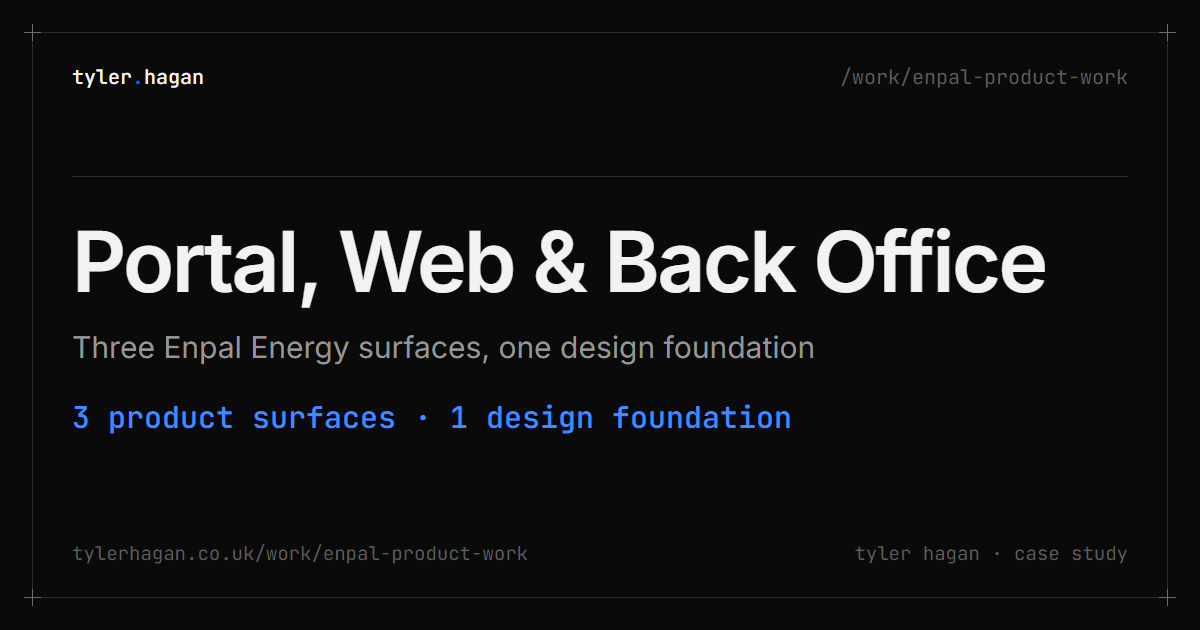
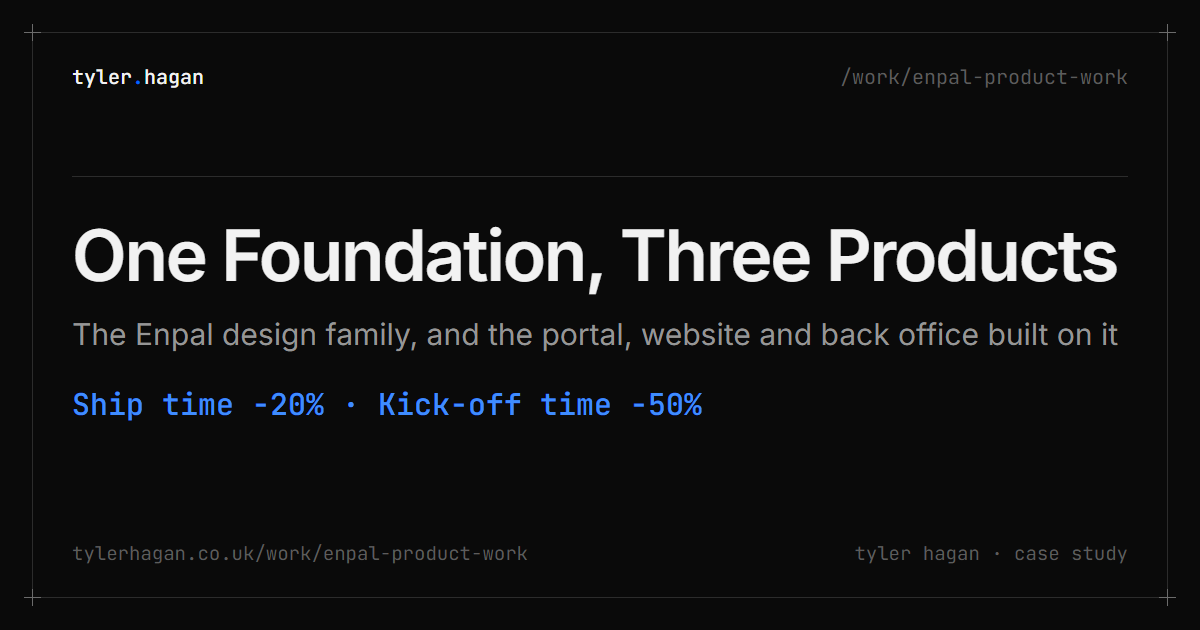
Merge the Enpal case studies into One Foundation, Three Products
The design family and product-surfaces cases become one open case study at
/work/enpal-product-work, with ship-time and kick-off KPIs and the system
deep dive kept behind the password at the end. /work/design-family
redirects there. New /work intro, and the home stat strip swaps
Discipline for Kick-off time −50%.

Changed region(s): [[0.0617, 0.3619, 0.9558, 0.4825], [0.0617, 0.5127, 0.9558, 0.573], [0.0617, 0.6032, 0.6475, 0.6937]]

diff --git a/src/utils/projectsData.js b/src/utils/projectsData.js
@@ -1,57 +1,46 @@
 export const projectsData = {
-  // ——— Enpal work, Mar–Sep 2026 (locked: full case study is encrypted) ———
-  'design-family': {
+  // ——— Enpal work, Mar–Sep 2026: the design family and the products built on it.
+  // The system deep-dive is encrypted: plaintext in content/design-family.content.json
+  // (gitignored), encrypted into public/data/design-family.enc.json via
+  // scripts/encrypt-case-study.mjs. /work/design-family redirects here (vercel.json). ———
+  'enpal-product-work': {
     // Headline figure for the share card (scripts/generate-og-card.mjs); only facts stated in the case
-    headline: '170+ tokens · 25+ components · 4 systems',
-    locked: true,
-    encPath: '/data/design-family.enc.json',
-    title: 'Enpal Design Family',
-    subtitle: 'One foundation, four systems: Enpal DS, NEMO, VERSO & FOLIO',
+    headline: 'Ship time −20% · Kick-off time −50%',
+    title: 'One Foundation, Three Products',
+    subtitle: 'The Enpal design family, and the portal, website and back office built on it',
     // Card copy on the home index, and the meta description for /work/<id>
-    summary: 'One shared foundation across four systems: Enpal DS, NEMO, VERSO, and FOLIO. 170+ tokens and 25+ components serving mobile, web, portal, and internal software.',
+    summary: 'As founding designer of a new venture, I built one shared design foundation and used it to ship a customer portal, a marketing site and a back-office tool. Cut ship times by 20% and kick-off times by 50%.',
     year: '2026',
     status: 'Shipped · in use at Enpal',
-    role: 'Senior Product Designer / Engineer',
+    role: 'Founding Designer / Design Engineer',
     timeline: 'Mar – Sep 2026',
-    tools: ['Figma', 'Design Tokens', 'React', 'shadcn', 'Ant Design'],
-    company: 'Enpal',
+    tools: ['Figma', 'Design Tokens', 'React', 'TypeScript', 'shadcn/ui', 'Ant Design'],
+    company: 'Enpal Energy',
     platform: 'Web, mobile & internal tools',
-    scope: 'System design, token pipeline, documentation',
+    scope: 'Design system, token pipeline, UX/UI, prototyping',
+    kpis: [
+      { label: 'Ship time', value: '−20%', suffix: 'across product teams' },
+      { label: 'Kick-off time', value: '−50%', suffix: 'for new projects' }
+    ],
     heroImage: { src: '/img/design-family/ds-docs-hero-light.webp', alt: 'Enpal design family documentation site' },
     // Live docs site exists (folio-ee.vercel.app), deliberately not linked publicly yet.
-    // Full case study lives in content/design-family.content.json (gitignored), encrypted
-    // into public/data/design-family.enc.json via scripts/encrypt-case-study.mjs.
-    brief: `Enpal's surfaces run from consumer marketing to dense internal software: one brand, very different contexts. New products needed a system from day one, and design decisions needed to land in code without loss. The design family answers both: Enpal DS as the shared parent layer (colour ramps, typography, spacing, radii), with NEMO (mobile), VERSO (consumer marketing web) and FOLIO (dense, task-focused software UI) built on top. I initiated it, designed it, and built the delivery end to end.`,
-    highlights: [
-      '170+ design tokens across primitive and semantic layers, generated as CSS, JSON and Figma Variables from one source',
-      '25+ documented components and 11 product patterns, light and dark throughout',
-      'A React/shadcn registry and an Ant Design theme generated from the same tokens',
-      'AI-first documentation: each system ships a markdown brief that drops straight into AI coding workflows',
-      'Versioned releases with a changelog, plus documentation paths for designers, developers and product teams'
-    ]
-  },
-  'enpal-product-work': {
-    headline: '3 product surfaces · 1 design foundation',
-    title: 'Portal, Web & Back Office',
-    subtitle: "Three Enpal Energy surfaces, one design foundation",
-    summary: 'Three Enpal Energy surfaces on one design foundation (customer portal, consumer marketing web, and the Hyperion back office), from high-fidelity prototypes through to a production-ready TypeScript scaffold.',
-    year: '2026',
-    status: 'Shipped · in use at Enpal',
-    role: 'Senior Product Designer / Engineer',
-    timeline: 'Mar – Sep 2026',
-    tools: ['Figma', 'FOLIO DS', 'VERSO DS', 'React', 'TypeScript', 'shadcn/ui'],
-    company: 'Enpal',
-    platform: 'Web',
-    scope: 'UX/UI, prototyping, TypeScript scaffold',
-    heroImage: { src: '/img/enpal-product-work/portal-proto-light.webp', alt: 'Customer portal overview built on FOLIO' },
-    brief: `Alongside building the Enpal design family, I designed and prototyped across three of Enpal Energy's product surfaces: the customer portal, the consumer marketing web, and Hyperion, the internal back office. All three sit on the family's systems, so most of the work wasn't starting from scratch. It was composing one shared foundation into three fairly different contexts.`,
+    encPath: '/data/design-family.enc.json',
+    lockedTitle: 'System deep dive · locked',
+    brief: `Enpal Energy was a new venture within the Enpal group, and I was its founding designer. Its products ran from consumer marketing to dense internal software: one brand, very different contexts. New products needed a system from day one, and design decisions needed to land in code without loss. So I built one shared foundation, the Enpal design family, and used it to ship a customer portal, a marketing site and a back-office tool in parallel. Teams shipped on brand from the start, cutting ship times by 20% and kick-off times by 50%.`,
     sections: [
       {
         title: 'One foundation, three contexts',
         paragraphs: [
           `The three surfaces sit at very different points on the same spectrum: a first-time visitor deciding whether to switch, a returning customer managing their energy, and an operations team working through hundreds of accounts. Build them separately and they drift apart. Build them on one system and they stay coherent, and they come together a lot faster.`,
           `The foundation is the Enpal design family: a shared parent layer (Enpal DS) with purpose-built sub-systems on top. VERSO handles consumer web, FOLIO handles dense product and internal UI. Colour, type, spacing and motion all come from one source, and each sub-system decides what those primitives mean in its own context. A handful of rules keep it honest. The big ones: brand yellow is reserved for conversion, ink leads in work contexts, and paper carries most of every screen.`,
-          `Because the system ships as design tokens, a React/shadcn registry, an Ant Design theme and Figma variables, all generated from a single source, each surface below just pulls it in rather than rebuilding it. The full deep-dive on the system is a separate case.`
+          `Because the system ships as design tokens, a React/shadcn registry, an Ant Design theme and Figma variables, all generated from a single source, each surface below just pulls it in rather than rebuilding it. The full deep-dive on the system is in the locked section at the end.`
+        ],
+        bullets: [
+          '170+ design tokens across primitive and semantic layers, generated as CSS, JSON and Figma Variables from one source',
+          '25+ documented components and 11 product patterns, light and dark throughout',
+          'A React/shadcn registry and an Ant Design theme generated from the same tokens',
+          'AI-first documentation: each system ships a markdown brief that drops straight into AI coding workflows',
+          'Versioned releases with a changelog, plus documentation paths for designers, developers and product teams'
         ],
         images: [
           { src: '/img/design-family/ds-docs-hero-light.webp', caption: 'The shared foundation: Enpal.design docs (light)' },
@@ -112,7 +101,7 @@ export const projectsData = {
         title: 'Where it stands',
         paragraphs: [
           `One foundation now carries three surfaces: a consumer landing page, a customer portal (a prototype plus a production-ready TypeScript scaffold), and an internal customer-360 tool, all speaking the same visual language, in light and dark.`,
-          `All three are now in use at Enpal. The story here is the design and the leverage the system gives rather than headline metrics. The full system deep-dive lives in the Enpal Design Family case.`
+          `All three are now in use at Enpal. With one foundation in place, product teams stopped building custom UI per project: ship times fell by 20% and new projects kicked off in half the time. The venture was later merged back into the parent company after its ways of working were adopted group-wide.`
         ]
       }
     ]

diff --git a/src/pages/HomePage.jsx b/src/pages/HomePage.jsx
@@ -83,20 +83,12 @@ const HomePage = ({ onNavigate }) => {
       image: '/img/offer-tool/heartbeat-breakdown-pitch.webp'
     },
     {
-      id: 'design-family',
-      title: 'Enpal Design Family',
-      year: '2026',
-      type: 'Design Systems',
-      tags: ['Design Tokens', 'Figma', 'React', 'Documentation'],
-      image: '/img/design-family/ds-docs-hero-light.webp'
-    },
-    {
       id: 'enpal-product-work',
-      title: 'Portal, Web & Back Office',
+      title: 'One Foundation, Three Products',
       year: '2026',
-      type: 'Product Surfaces',
-      tags: ['FOLIO', 'VERSO', 'React', 'TypeScript', 'shadcn/ui'],
-      image: '/img/enpal-product-work/marketing-landing-hero.webp'
+      type: 'Design Systems & Product',
+      tags: ['Design Systems', 'Figma', 'React', 'TypeScript'],
+      image: '/img/design-family/ds-docs-hero-light.webp'
     },
     {
       id: 'field-service',
@@ -193,8 +185,8 @@ const HomePage = ({ onNavigate }) => {
             <span className="datum-value">+42%</span>
           </div>
           <div className="datum">
-            <span className="label">Discipline</span>
-            <span className="datum-value">Design × Code</span>
+            <span className="label">Kick-off time</span>
+            <span className="datum-value">−50%</span>
           </div>
         </div>
 
@@ -202,7 +194,7 @@ const HomePage = ({ onNavigate }) => {
           <SectionHeader
             path="/work"
             count={`${String(projects.length).padStart(3, '0')} entries`}
-            subtitle="Selected projects covering the full residential solar lifecycle (selling, installing, and monitoring), spanning enterprise software, mobile applications, and design systems, shipped hand-in-hand with engineering teams."
+            subtitle="Selected work on products where trust decides the sale: high-ticket purchase journeys, sales and field tools, and design systems that help teams ship faster. Built hand in hand with engineering, from research to production."
           />
           <div className="work-index">
             {projects.map((project, i) => (

diff --git a/src/pages/ProjectPage.jsx b/src/pages/ProjectPage.jsx
@@ -318,11 +318,6 @@ const ProjectPage = ({ projectId, onNavigate }) => {
                   {project.demo.label} ↗
                 </a>
               )}
-              {projectId === 'enpal-product-work' && (
-                <RouteLink page="project" id="design-family" onNavigate={onNavigate} className="btn btn-secondary">
-                  related · Enpal Design Family →
-                </RouteLink>
-              )}
             </div>
             {project.sections.map((section, i) => (
               <div key={i} className="project-section">
@@ -351,6 +346,9 @@ const ProjectPage = ({ projectId, onNavigate }) => {
                 )}
               </div>
             ))}
+            {project.encPath && (
+              <LockedCaseStudy encPath={project.encPath} storageKey={`cs_${projectId}`} title={project.lockedTitle} />
+            )}
           </>
         )}
 

diff --git a/src/components/LockedCaseStudy.jsx b/src/components/LockedCaseStudy.jsx
@@ -66,7 +66,7 @@ const Section = ({ section, onOpenImage }) => (
   </div>
 );
 
-const LockedCaseStudy = ({ encPath, storageKey }) => {
+const LockedCaseStudy = ({ encPath, storageKey, title = 'Full case study · locked' }) => {
   const { openContact } = useContact();
   const [content, setContent] = useState(null);
   const [password, setPassword] = useState('');
@@ -128,7 +128,7 @@ const LockedCaseStudy = ({ encPath, storageKey }) => {
   return (
     <div className="project-section locked-section">
       <div className="locked-label label">[ 401 · access restricted ]</div>
-      <h2>Full case study · locked</h2>
+      <h2>{title}</h2>
       <p className="locked-subtitle">
         This section covers confidential work for a former employer, so it stays behind
         a password, available on request,{' '}
